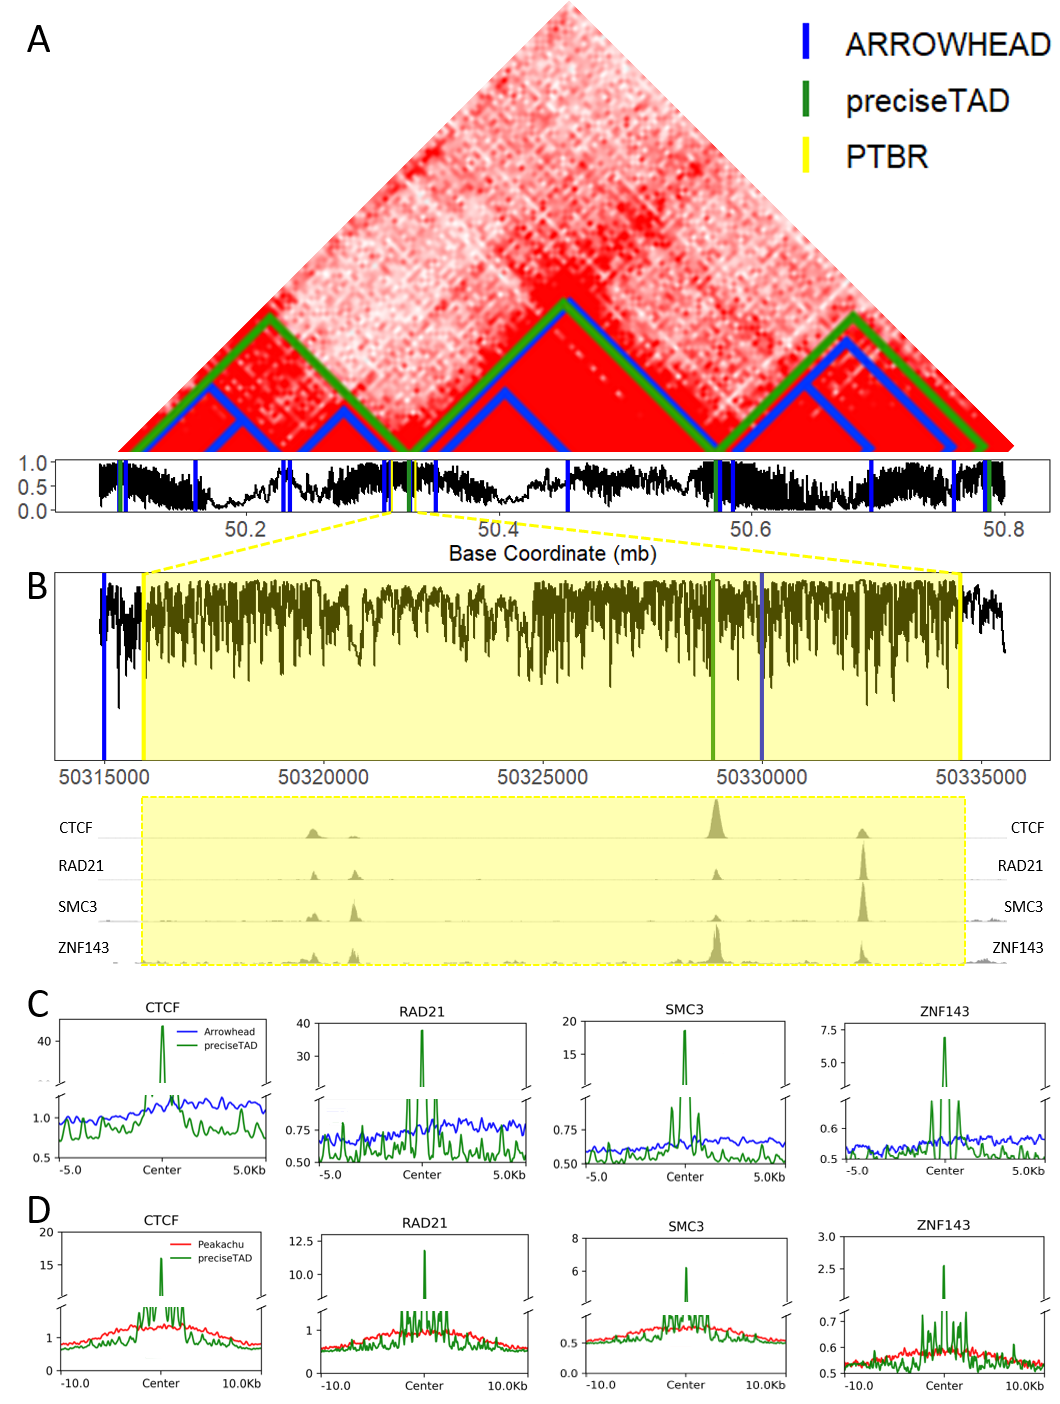
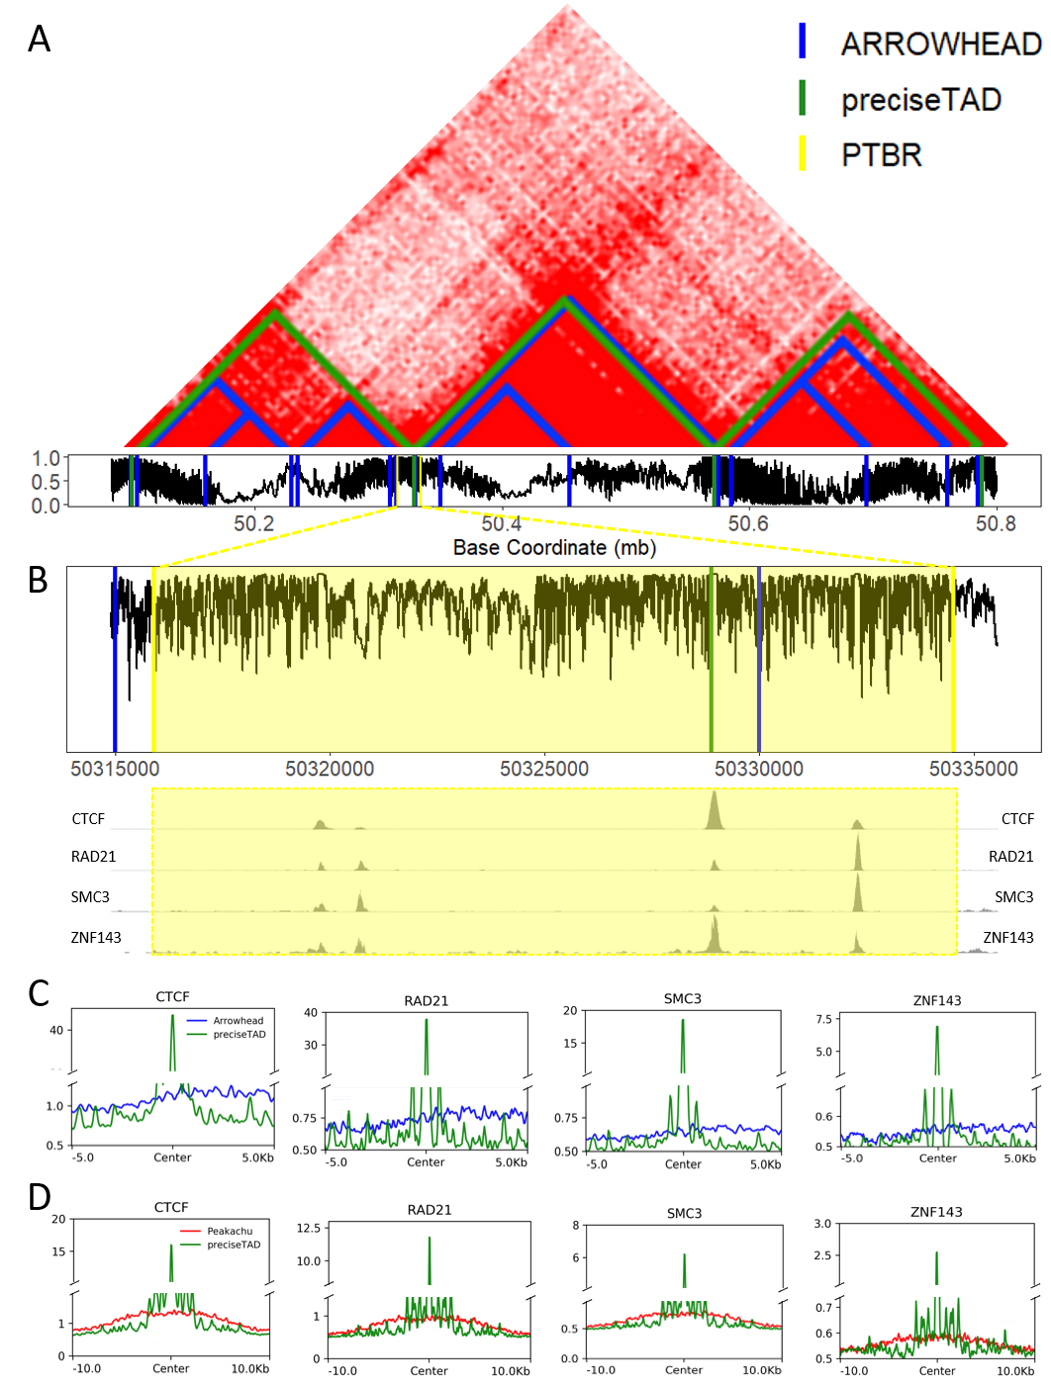
completed todo, edited figs made hi-res

diff --git a/ToDo.md b/ToDo.md
@@ -11,7 +11,7 @@ The error is in `preciseTAD()` function, when the `parallel` argument is a numbe
 
 ## For publication
 
-- TBD remaining ???
++ TBD remaining ???
 
 - Check cross-cell-line testing strategy
     - Methods, "Evaluating performance across cell lines"
@@ -21,9 +21,9 @@ The error is in `preciseTAD()` function, when the `parallel` argument is a numbe
 + Suppl Fig 3, B, C - add labels "Peakachu GM12878", "Peakachu K562" in the upper left corner of each barplot panel
     - Did you push it?
 
-- Suppl Fig 9, 10 - narrower gray header, smaller font
++ Suppl Fig 9, 10 - narrower gray header, smaller font
 
-- Resolution of all figures should be >300dpi. Currently, they are 150dpi
++ Resolution of all figures should be >300dpi. Currently, they are 150dpi
 
 - Look into ExperimentalHub
 
